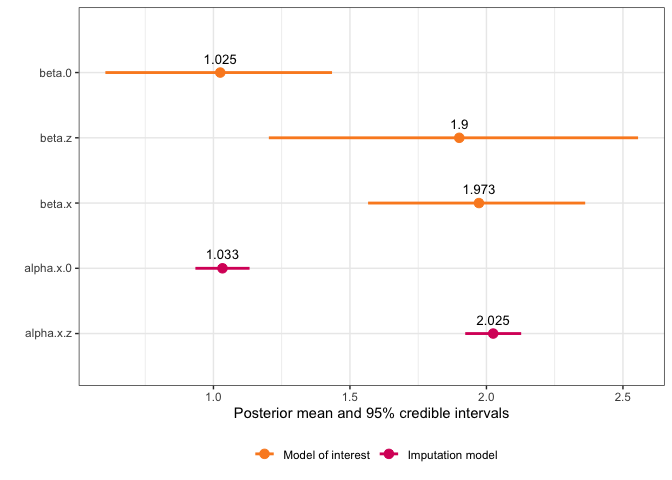
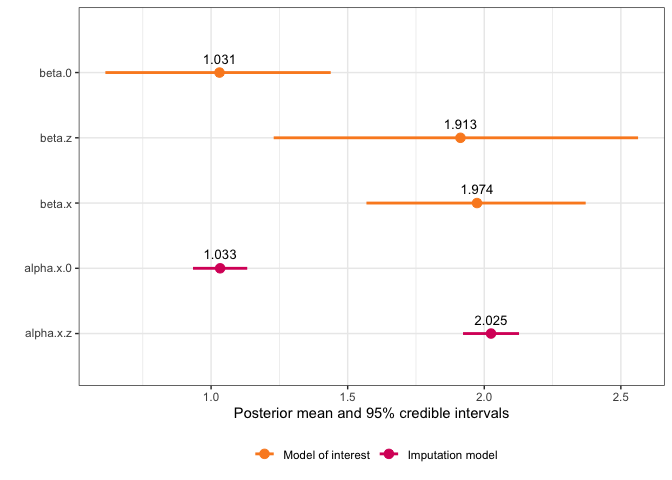
fixing cran stuff

diff --git a/README.md b/README.md
@@ -147,30 +147,30 @@ summary(simple_model)
 #> [1] "berkson"   "classical" "missing"  
 #> 
 #> Fixed effects for model of interest: 
-#>            mean        sd 0.025quant 0.5quant 0.975quant      mode
-#> beta.0 1.024935 0.2190856  0.6041227 1.021642   1.434356 0.9833271
-#> beta.z 1.900442 0.3884423  1.2029455 1.885061   2.555375 1.8974729
+#>            mean        sd 0.025quant 0.5quant 0.975quant     mode
+#> beta.0 1.030791 0.2186802  0.6130237 1.029601   1.437984 1.025300
+#> beta.z 1.912812 0.3877295  1.2292061 1.903317   2.562966 1.911204
 #> 
 #> Coefficient for variable with measurement error and/or missingness: 
 #>            mean        sd 0.025quant 0.5quant 0.975quant     mode
-#> beta.x 1.972587 0.2019939   1.566477 1.975449   2.361715 1.987722
+#> beta.x 1.973564 0.2038302   1.568711 1.974786   2.371259 1.979904
 #> 
 #> Fixed effects for imputation model: 
 #>               mean         sd 0.025quant 0.5quant 0.975quant     mode
-#> alpha.x.0 1.033080 0.05058461  0.9338413 1.033088   1.132272 1.033088
-#> alpha.x.z 2.024707 0.05224680  1.9222829 2.024690   2.127234 2.024690
+#> alpha.x.0 1.033082 0.05060141  0.9338112 1.033090   1.132307 1.033090
+#> alpha.x.z 2.024703 0.05226398  1.9222436 2.024685   2.127261 2.024685
 #> 
 #> Model hyperparameters (apart from beta.x): 
 #>                                      mean        sd 0.025quant  0.5quant
-#> Precision for model of interest 1.1302327 0.3649639  0.5601411 1.0813062
-#> Precision for x berkson model   1.1244840 0.3425051  0.5876939 1.0791086
-#> Precision for x classical model 0.9257455 0.1082419  0.7333387 0.9186871
-#> Precision for x imp model       0.9786186 0.1251109  0.7528646 0.9716111
+#> Precision for model of interest 1.1275912 0.3557096  0.5706586 1.0803096
+#> Precision for x berkson model   1.1261281 0.3482949  0.5894632 1.0771006
+#> Precision for x classical model 0.9258424 0.1097482  0.7297089 0.9190390
+#> Precision for x imp model       0.9772603 0.1260987  0.7518915 0.9694641
 #>                                 0.975quant      mode
-#> Precision for model of interest   1.980582 0.9918565
-#> Precision for x berkson model     1.922658 0.9955491
-#> Precision for x classical model   1.158950 0.9031961
-#> Precision for x imp model         1.244583 0.9594578
+#> Precision for model of interest   1.955901 0.9937829
+#> Precision for x berkson model     1.946666 0.9859079
+#> Precision for x classical model   1.161209 0.9048806
+#> Precision for x imp model         1.247511 0.9544899
 ```
 
 And we can use the default plot function to see a plot of the fixed

diff --git a/LICENSE.md b/LICENSE.md
@@ -1,0 +1,21 @@
+# MIT License
+
+Copyright (c) 2024 inlamemi authors
+
+Permission is hereby granted, free of charge, to any person obtaining a copy
+of this software and associated documentation files (the "Software"), to deal
+in the Software without restriction, including without limitation the rights
+to use, copy, modify, merge, publish, distribute, sublicense, and/or sell
+copies of the Software, and to permit persons to whom the Software is
+furnished to do so, subject to the following conditions:
+
+The above copyright notice and this permission notice shall be included in all
+copies or substantial portions of the Software.
+
+THE SOFTWARE IS PROVIDED "AS IS", WITHOUT WARRANTY OF ANY KIND, EXPRESS OR
+IMPLIED, INCLUDING BUT NOT LIMITED TO THE WARRANTIES OF MERCHANTABILITY,
+FITNESS FOR A PARTICULAR PURPOSE AND NONINFRINGEMENT. IN NO EVENT SHALL THE
+AUTHORS OR COPYRIGHT HOLDERS BE LIABLE FOR ANY CLAIM, DAMAGES OR OTHER
+LIABILITY, WHETHER IN AN ACTION OF CONTRACT, TORT OR OTHERWISE, ARISING FROM,
+OUT OF OR IN CONNECTION WITH THE SOFTWARE OR THE USE OR OTHER DEALINGS IN THE
+SOFTWARE.
